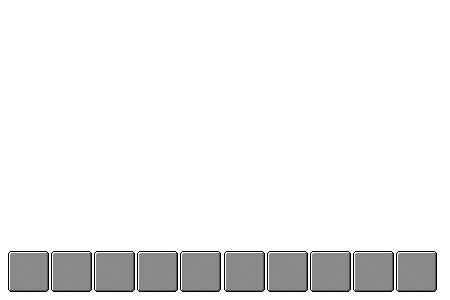
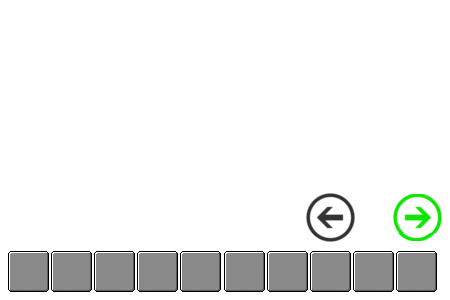
Buttons WIP

Changed region(s): [[0.8711, 0.63, 0.9956, 0.81], [0.6533, 0.63, 0.8089, 0.81]]

diff --git a/src/theschoolproject/QuestionPanel.java b/src/theschoolproject/QuestionPanel.java
@@ -22,7 +22,7 @@ public class QuestionPanel {
     int delay = 0;
     int timer = 150;
     int baseForNumber = 209;
-    String CurrentNumber = "";
+    String currentNumber = "";
     boolean answerRight = false;
 
     public QuestionPanel(GamePanel gp) {
@@ -37,53 +37,58 @@ public class QuestionPanel {
         //209 351
         if (world.mouse.isMousePressed() && answerRight == false) {
             if ((numButton(209, 351, 40, 40, mX, mY) && delay == 0)) {
-                CurrentNumber = CurrentNumber + "1";
-                delay = 50;
+                currentNumber = currentNumber + "1";
+                delay = 100;
             }
             if ((numButton(baseForNumber + 43, 351, 40, 40, mX, mY) && delay == 0)) {
-                CurrentNumber = CurrentNumber + "2";
-                delay = 50;
+                currentNumber = currentNumber + "2";
+                delay = 100;
             }
             if ((numButton(baseForNumber + (43 * 2), 351, 40, 40, mX, mY) && delay == 0)) {
-                CurrentNumber = CurrentNumber + "3";
-                delay = 50;
+                currentNumber = currentNumber + "3";
+                delay = 100;
             }
             if ((numButton(baseForNumber + (43 * 3), 351, 40, 40, mX, mY) && delay == 0)) {
-                CurrentNumber = CurrentNumber + "4";
-                delay = 50;
+                currentNumber = currentNumber + "4";
+                delay = 100;
             }
             if ((numButton(baseForNumber + (43 * 4), 351, 40, 40, mX, mY) && delay == 0)) {
-                CurrentNumber = CurrentNumber + "5";
-                delay = 50;
+                currentNumber = currentNumber + "5";
+                delay = 100;
             }
             if ((numButton(baseForNumber + (43 * 5), 351, 40, 40, mX, mY) && delay == 0)) {
-                CurrentNumber = CurrentNumber + "6";
-                delay = 50;
+                currentNumber = currentNumber + "6";
+                delay = 100;
             }
             if ((numButton(baseForNumber + (43 * 6), 351, 40, 40, mX, mY) && delay == 0)) {
-                CurrentNumber = CurrentNumber + "7";
-                delay = 50;
+                currentNumber = currentNumber + "7";
+                delay = 100;
             }
             if ((numButton(baseForNumber + (43 * 7), 351, 40, 40, mX, mY) && delay == 0)) {
-                CurrentNumber = CurrentNumber + "8";
-                delay = 50;
+                currentNumber = currentNumber + "8";
+                delay = 100;
             }
             if ((numButton(baseForNumber + (43 * 8), 351, 40, 40, mX, mY) && delay == 0)) {
-                CurrentNumber = CurrentNumber + "9";
-                delay = 50;
+                currentNumber = currentNumber + "9";
+                delay = 100;
             }
             if ((numButton(baseForNumber + (43 * 9), 351, 40, 40, mX, mY) && delay == 0)) {
-                CurrentNumber = CurrentNumber + "0";
-                delay = 50;
+//                currentNumber = currentNumber + "0";
+                currentNumber = currentNumber.substring(0, currentNumber.length()-1);
+                delay = 100;
+            }
+            if ((numButton(306, 293, 50, 50, mX, mY) && delay == 0)) {
+                currentNumber = currentNumber.substring(0, currentNumber.length()-1);
+                delay = 100;
             }
         }
-        if(CurrentNumber != "" && Integer.parseInt(CurrentNumber) == product){
+        if (currentNumber != "" && Integer.parseInt(currentNumber) == product) {
             answerRight = true;
-            if(timer == 0){
-                 world.switchTo("game");
-            }else{
+            if (timer == 0) {
+                world.switchTo("game");
+            } else {
                 timer--;
-                if(timer < 0){
+                if (timer < 0) {
                     timer = 0;
                 }
             }
@@ -108,7 +113,7 @@ public class QuestionPanel {
     public final String makeEquation() {
         String eq = "";
         answerRight = false;
-        CurrentNumber = "";
+        currentNumber = "";
         timer = 150;
         int multiplicand = gen.nextInt(QUESTION_RANGE) + 1;
         int multiplier = gen.nextInt(QUESTION_RANGE) + 1;
@@ -124,12 +129,12 @@ public class QuestionPanel {
         g.setColor(Color.black);
         g.drawString("Multiplication Question", this.xLoc + 10, this.yLoc + 30);
         g.drawString(equation, this.xLoc + 200, this.yLoc + 100);
-        if(answerRight){
+        if (answerRight) {
             g.setColor(Color.GREEN);
-        }else{
+        } else {
             g.setColor(Color.BLACK);
         }
-        g.drawString(CurrentNumber, this.xLoc + 220 - (CurrentNumber.length() * 3), this.yLoc + 150);
+        g.drawString(currentNumber, this.xLoc + 220 - (currentNumber.length() * 3), this.yLoc + 150);
         g.drawString("This now works try it!", this.xLoc + 100, this.yLoc + 200);
     }
 }

diff --git a/src/theschoolproject/FloorTile.java b/src/theschoolproject/FloorTile.java
@@ -60,6 +60,15 @@ public class FloorTile {
                 return true;
             case 5:
                 return false;
+            case 6:
+                return false;
+            case 7:
+                return false;
+            case 8:
+                return false;
+            case 9:
+                return true;
+
             default:
                 return false;
         }
